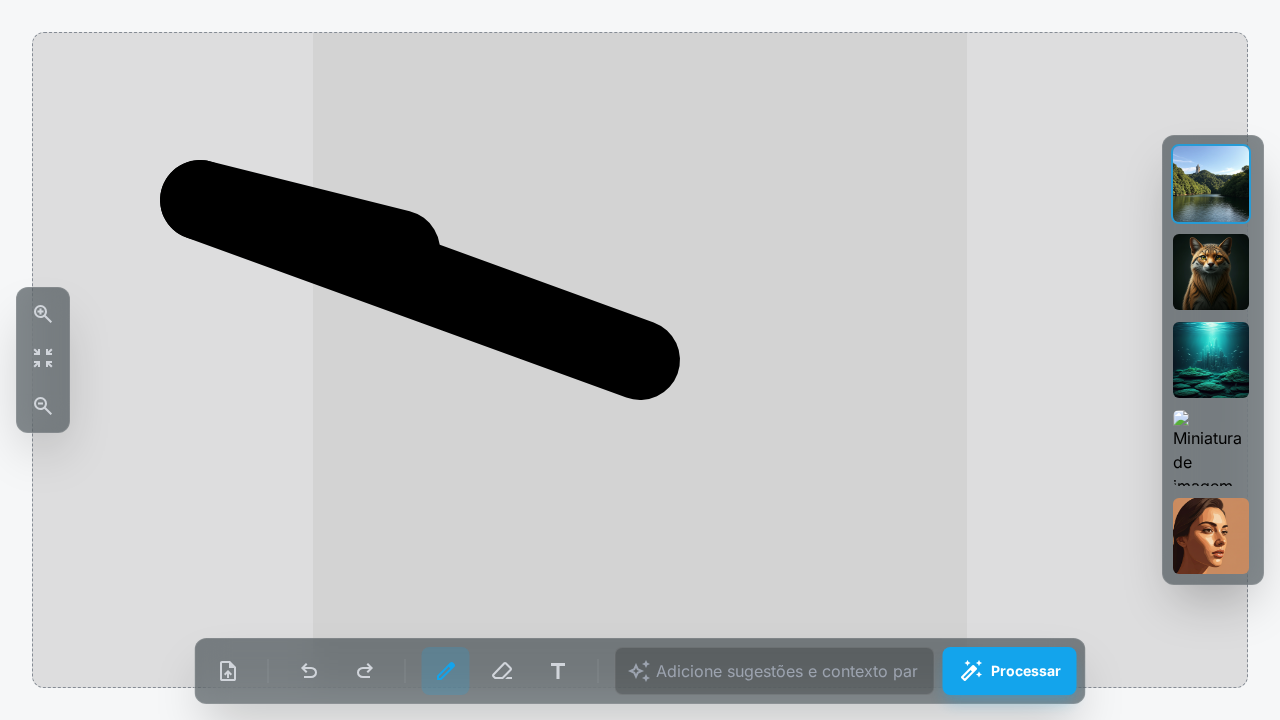
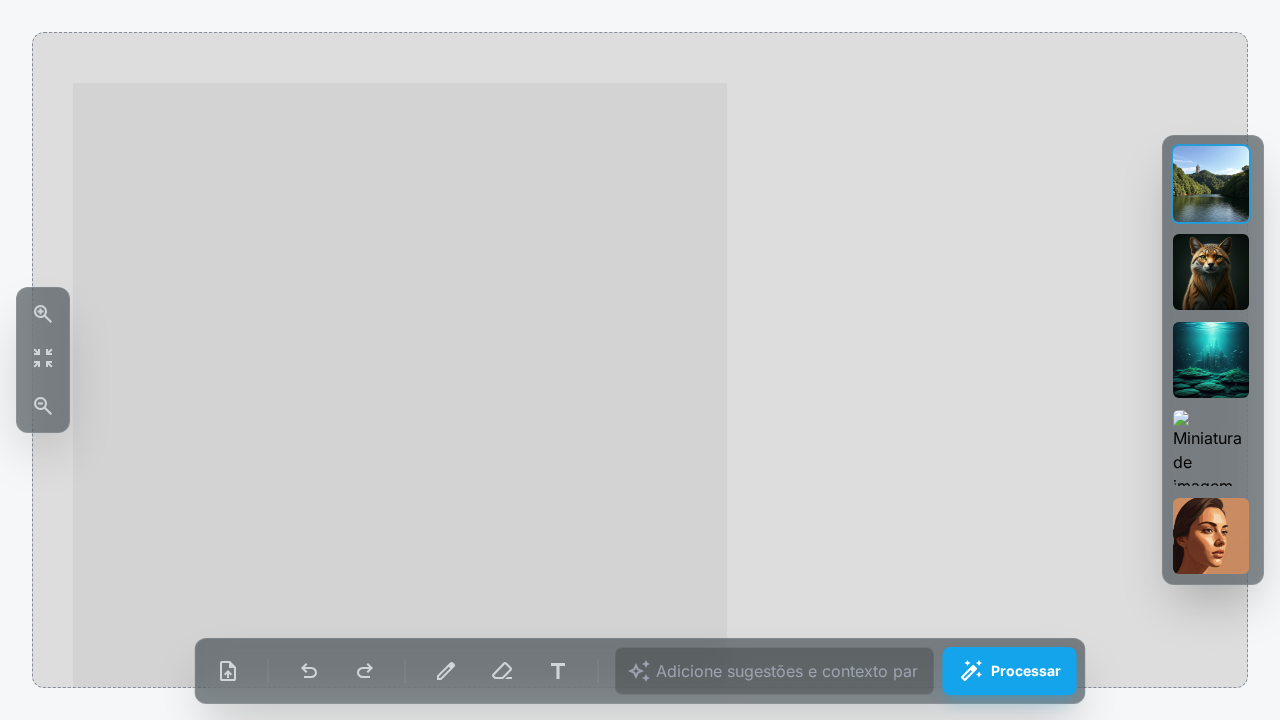
feat: Implement integrated advanced color picker and fix UX
Implements an enhanced color picker experience by integrating the full Alwan.js UI directly into the pencil menu, making it always visible alongside the color swatches. This provides users with both quick-select and advanced color options without extra clicks.

This commit also addresses feedback from code review:
- Fixes a UX issue where the pencil menu would not close when another tool (like the eraser) was selected.
- Corrects and updates all Playwright verification scripts (`verify_*.py`) to match the new UI logic, ensuring the test suite is stable and passes.
- Resolves a bug caused by conflicting click event listeners on the draw button.

Changed region(s): [[0.125, 0.2139, 0.5312, 0.55], [0.3438, 0.9167, 0.375, 0.9472]]

diff --git a/docs/index.html b/docs/index.html
@@ -231,33 +231,33 @@
 <button class="h-6 w-6 rounded-full bg-sky-400 transition-transform hover:scale-110"></button>
 </div>
 </div>
-<div class="grid grid-cols-2 gap-4">
-<div id="color-picker-container" class="relative h-28 w-full cursor-pointer rounded-lg"></div>
+<!-- Advanced Color Picker Container -->
+<div id="color-picker-container" class="w-full h-48 my-4"></div>
+<!-- Input fields for color values -->
 <div class="flex flex-col gap-3">
-<div class="flex items-center gap-2">
-<button class="flex h-9 w-9 flex-shrink-0 items-center justify-center rounded-lg bg-white/10 transition-colors hover:bg-white/20" title="Conta-gotas">
-<span class="material-symbols-outlined text-xl">colorize</span>
-</button>
-<div class="flex flex-1 flex-col gap-1">
-<label class="text-xs font-semibold text-gray-400" for="hex-input">HEX</label>
-<input class="w-full rounded-md border-none bg-black/30 p-1 px-2 text-sm font-semibold uppercase text-gray-300" id="hex-input" type="text" value="#EF4444"/>
-</div>
-</div>
-<div class="flex items-center gap-2">
-<div class="flex-1">
-<label class="text-xs font-semibold text-gray-400" for="r-input">R</label>
-<input class="w-full rounded-md border-none bg-black/30 p-1 text-center text-sm font-semibold text-gray-300" id="r-input" type="text" value="239"/>
-</div>
-<div class="flex-1">
-<label class="text-xs font-semibold text-gray-400" for="g-input">G</label>
-<input class="w-full rounded-md border-none bg-black/30 p-1 text-center text-sm font-semibold text-gray-300" id="g-input" type="text" value="68"/>
-</div>
-<div class="flex-1">
-<label class="text-xs font-semibold text-gray-400" for="b-input">B</label>
-<input class="w-full rounded-md border-none bg-black/30 p-1 text-center text-sm font-semibold text-gray-300" id="b-input" type="text" value="68"/>
-</div>
-</div>
-</div>
+    <div class="flex items-center gap-2">
+        <button class="flex h-9 w-9 flex-shrink-0 items-center justify-center rounded-lg bg-white/10 transition-colors hover:bg-white/20" title="Conta-gotas">
+            <span class="material-symbols-outlined text-xl">colorize</span>
+        </button>
+        <div class="flex flex-1 flex-col gap-1">
+            <label class="text-xs font-semibold text-gray-400" for="hex-input">HEX</label>
+            <input class="w-full rounded-md border-none bg-black/30 p-1 px-2 text-sm font-semibold uppercase text-gray-300" id="hex-input" type="text" value="#EF4444"/>
+        </div>
+    </div>
+    <div class="flex items-center gap-2">
+        <div class="flex-1">
+            <label class="text-xs font-semibold text-gray-400" for="r-input">R</label>
+            <input class="w-full rounded-md border-none bg-black/30 p-1 text-center text-sm font-semibold text-gray-300" id="r-input" type="text" value="239"/>
+        </div>
+        <div class="flex-1">
+            <label class="text-xs font-semibold text-gray-400" for="g-input">G</label>
+            <input class="w-full rounded-md border-none bg-black/30 p-1 text-center text-sm font-semibold text-gray-300" id="g-input" type="text" value="68"/>
+        </div>
+        <div class="flex-1">
+            <label class="text-xs font-semibold text-gray-400" for="b-input">B</label>
+            <input class="w-full rounded-md border-none bg-black/30 p-1 text-center text-sm font-semibold text-gray-300" id="b-input" type="text" value="68"/>
+        </div>
+    </div>
 </div>
 <div class="flex flex-col gap-2">
 <div class="flex items-center gap-2">

diff --git a/docs/script.js b/docs/script.js
@@ -134,12 +134,19 @@ document.addEventListener('DOMContentLoaded', () => {
 
     // Mode Switching
     drawBtn.addEventListener('click', () => {
-        currentMode = currentMode === 'draw' ? 'pan' : 'draw';
+        if (currentMode !== 'draw') {
+            currentMode = 'draw';
+            pencilMenu.classList.remove('hidden');
+        } else {
+            currentMode = 'pan';
+            pencilMenu.classList.add('hidden');
+        }
         updateCursorAndButtonState();
     });
 
     eraserBtn.addEventListener('click', () => {
         currentMode = currentMode === 'erase' ? 'pan' : 'erase';
+        pencilMenu.classList.add('hidden'); // Always hide pencil menu in erase mode
         updateCursorAndButtonState();
     });
 
@@ -348,13 +355,6 @@ document.addEventListener('DOMContentLoaded', () => {
         document.addEventListener('mousemove', onMouseMove);
         document.addEventListener('mouseup', onMouseUp);
     };
-
-    drawBtn.addEventListener('click', () => {
-        currentMode = 'draw';
-        updateCursorAndButtonState();
-        // Toggle menu visibility when draw button is clicked
-        pencilMenu.classList.toggle('hidden');
-    });
 
     makeDraggable(pencilMenu);
 

diff --git a/verify_eraser_mode.py b/verify_eraser_mode.py
@@ -1,34 +1,38 @@
-from playwright.sync_api import sync_playwright
-import time
+
+from playwright.sync_api import sync_playwright, expect
 import os
+import re
 
 def run(playwright):
     browser = playwright.chromium.launch(headless=True)
     context = browser.new_context()
     page = context.new_page()
 
+    # Create verification directory if it doesn't exist
+    screenshot_dir = "verification"
+    if not os.path.exists(screenshot_dir):
+        os.makedirs(screenshot_dir)
+
     # Get the absolute path to the HTML file
     file_path = "file://" + os.path.abspath("docs/index.html")
     page.goto(file_path)
 
     # 1. Load an image
-    # Create a dummy SVG file for upload, as it's a valid image format
-    image_content = '<svg width="100" height="100" xmlns="http://www.w3.org/2000/svg"><rect width="100%" height="100%" fill="red" /></svg>'
-    dummy_image_filename = "dummy_image.svg"
-    with open(dummy_image_filename, "w") as f:
-        f.write(image_content)
+    dummy_image_path = os.path.join(screenshot_dir, "dummy_image.svg")
+    with open(dummy_image_path, "w") as f:
+        f.write('<svg width="100" height="100" xmlns="http://www.w3.org/2000/svg"><rect width="100%" height="100%" fill="red" /></svg>')
 
-    page.set_input_files('input[type="file"]', dummy_image_filename)
+    page.set_input_files('input[type="file"]', dummy_image_path)
+    expect(page.locator("#editor-canvas")).not_to_have_class("hidden", timeout=5000)
 
-    # Wait for the image to be loaded and the canvas to be visible
-    page.wait_for_selector("#editor-canvas:not(.hidden)", timeout=5000)
-    time.sleep(1) # Give it a moment to render
-
-    # 2. Click the "Draw" button and close the menu
-    page.click('button[title="Desenhar"]')
-    time.sleep(0.5)
-    page.click("#close-pencil-menu")
-    time.sleep(0.5)
+    # 2. Activate draw mode to be able to draw a line
+    draw_button = page.locator('button[title="Desenhar"]')
+    draw_button.click()
+    pencil_menu = page.locator("#pencil-menu")
+    expect(pencil_menu).to_be_visible()
+    # Close the menu to be able to draw on the canvas
+    draw_button.click()
+    expect(pencil_menu).to_be_hidden()
 
     # 3. Draw a line on the canvas
     canvas = page.locator("#drawing-canvas")
@@ -37,23 +41,20 @@ def run(playwright):
     page.mouse.move(200, 200)
     page.mouse.move(400, 250)
     page.mouse.up()
-    time.sleep(0.5)
 
-    # 4. Click the "Eraser" button
-    page.click('button[title="Borracha"]')
-    time.sleep(0.5)
+    # 4. Click the "Eraser" button and verify it's active
+    eraser_button = page.locator('button[title="Borracha"]')
+    eraser_button.click()
+    expect(eraser_button).to_have_attribute("class", re.compile(r"bg-primary/20"))
+
 
     # 5. "Draw" (erase) over the line
     page.mouse.down()
     page.mouse.move(250, 180)
     page.mouse.move(350, 280)
     page.mouse.up()
-    time.sleep(0.5)
 
     # 6. Take a screenshot
-    screenshot_dir = "verification"
-    if not os.path.exists(screenshot_dir):
-        os.makedirs(screenshot_dir)
     screenshot_path = os.path.join(screenshot_dir, "eraser_mode_verification.png")
     page.screenshot(path=screenshot_path)
 
@@ -62,7 +63,7 @@ def run(playwright):
     browser.close()
 
     # Clean up the dummy file
-    os.remove(dummy_image_filename)
+    os.remove(dummy_image_path)
 
 with sync_playwright() as playwright:
     run(playwright)

diff --git a/verify_color_brush_size.py b/verify_color_brush_size.py
@@ -1,72 +1,65 @@
 
 from playwright.sync_api import sync_playwright, expect
 import os
-import re
 
 def run(playwright):
     browser = playwright.chromium.launch(headless=True)
     context = browser.new_context()
     page = context.new_page()
 
-    # Create verification directory
+    # Create verification directory if it doesn't exist
     screenshot_dir = "verification"
     if not os.path.exists(screenshot_dir):
         os.makedirs(screenshot_dir)
 
+    # Get the absolute path to the HTML file
     file_path = "file://" + os.path.abspath("docs/index.html")
     page.goto(file_path)
 
     # 1. Load an image
     dummy_image_path = os.path.join(screenshot_dir, "dummy_image.svg")
     with open(dummy_image_path, "w") as f:
-        f.write('<svg width="100" height="100" xmlns="http://www.w3.org/2000/svg"><rect width="100%" height="100%" fill="lightyellow" /></svg>')
+        f.write('<svg width="100" height="100" xmlns="http://www.w3.org/2000/svg"><rect width="100%" height="100%" fill="lightgray" /></svg>')
 
     page.set_input_files('input[type="file"]', dummy_image_path)
+
     expect(page.locator("#editor-canvas")).not_to_have_class("hidden", timeout=5000)
 
-    # 2. Open Pencil Menu to set brush properties
+    # 2. Click the "Draw" button to open the menu
     draw_button = page.locator('button[title="Desenhar"]')
     draw_button.click()
     pencil_menu = page.locator("#pencil-menu")
     expect(pencil_menu).to_be_visible()
 
-    # 3. Set Color to Magenta
-    magenta_swatch = page.locator(".bg-pink-500")
-    magenta_swatch.click()
+    # 3. Change brush color to blue
+    blue_swatch = page.locator(".bg-blue-500")
+    blue_swatch.click()
 
-    # 4. Set Brush Size to Large
+    # 4. Change brush size using the correct slider ID
     size_slider = page.locator("#size-slider")
     size_slider.fill("80")
 
-    # 5. Close the pencil menu
+    # 5. Close the pencil menu by clicking the Draw button again
     draw_button.click()
     expect(pencil_menu).to_be_hidden()
 
-    # 6. Draw a diagonal line
+    # 6. Draw a line
     canvas = page.locator("#drawing-canvas")
     canvas.hover()
     page.mouse.down()
-    page.mouse.move(150, 150)
-    page.mouse.move(450, 350)
+    page.mouse.move(200, 200)
+    page.mouse.move(400, 250)
     page.mouse.up()
 
-    # 7. Activate Eraser Mode
-    eraser_button = page.locator('button[title="Borracha"]')
-    eraser_button.click()
-    expect(eraser_button).to_have_attribute("class", re.compile(r"bg-primary/20"))
-
-    # 8. Erase a chunk in the middle of the line (Brush size is already large)
-    page.mouse.down()
-    page.mouse.move(280, 230)
-    page.mouse.move(320, 270)
-    page.mouse.up()
-
-    # 9. Take final screenshot
-    screenshot_path = os.path.join(screenshot_dir, "full_workflow_verification.png")
+    # 7. Take a screenshot
+    screenshot_path = os.path.join(screenshot_dir, "color_size_verification.png")
     page.screenshot(path=screenshot_path)
+
     print(f"Screenshot saved to {screenshot_path}")
 
     browser.close()
+
+    # Clean up the dummy image
     os.remove(dummy_image_path)
 
 with sync_playwright() as playwright:

diff --git a/verify_fit_to_screen.py b/verify_fit_to_screen.py
@@ -1,5 +1,5 @@
-from playwright.sync_api import sync_playwright
-import time
+
+from playwright.sync_api import sync_playwright, expect
 import os
 
 def run(playwright):
@@ -7,52 +7,55 @@ def run(playwright):
     context = browser.new_context()
     page = context.new_page()
 
+    # Create verification directory if it doesn't exist
+    screenshot_dir = "verification"
+    if not os.path.exists(screenshot_dir):
+        os.makedirs(screenshot_dir)
+
     file_path = "file://" + os.path.abspath("docs/index.html")
     page.goto(file_path)
 
     # 1. Load a rectangular (non-square) image
-    image_content = '<svg width="200" height="100" xmlns="http://www.w3.org/2000/svg"><rect width="100%" height="100%" fill="teal" /></svg>'
-    dummy_image_filename = "dummy_rectangular_image.svg"
-    with open(dummy_image_filename, "w") as f:
-        f.write(image_content)
+    dummy_image_path = os.path.join(screenshot_dir, "dummy_rectangular_image.svg")
+    with open(dummy_image_path, "w") as f:
+        f.write('<svg width="200" height="100" xmlns="http://www.w3.org/2000/svg"><rect width="100%" height="100%" fill="teal" /></svg>')
 
-    page.set_input_files('input[type="file"]', dummy_image_filename)
-    page.wait_for_selector("#editor-canvas:not(.hidden)", timeout=5000)
-    time.sleep(1)
+    page.set_input_files('input[type="file"]', dummy_image_path)
+    expect(page.locator("#editor-canvas")).not_to_have_class("hidden", timeout=5000)
 
     # 2. Zoom In
-    page.click("#zoom-in-btn")
-    time.sleep(0.5)
-    page.click("#zoom-in-btn") # Zoom in twice
-    time.sleep(1)
+    zoom_in_button = page.locator("#zoom-in-btn")
+    zoom_in_button.click()
+    zoom_in_button.click() # Zoom in twice
+    expect(page.locator("#zoom-percentage-input")).to_have_value("120%")
+
 
     # 3. Reset Zoom
-    page.click("#reset-zoom-btn")
-    time.sleep(1)
+    page.locator("#reset-zoom-btn").click()
+    expect(page.locator("#zoom-percentage-input")).to_have_value("100%")
 
     # 4. Activate Draw Mode and draw a line
-    page.click('button[title="Desenhar"]')
-    time.sleep(0.5)
-    page.click("#close-pencil-menu")
-    time.sleep(0.5)
+    draw_button = page.locator('button[title="Desenhar"]')
+    draw_button.click()
+    pencil_menu = page.locator("#pencil-menu")
+    expect(pencil_menu).to_be_visible()
+    draw_button.click() # Close the menu
+    expect(pencil_menu).to_be_hidden()
+
     canvas = page.locator("#drawing-canvas")
     canvas.hover()
     page.mouse.down()
     page.mouse.move(200, 200)
     page.mouse.move(400, 250)
     page.mouse.up()
-    time.sleep(0.5)
 
     # 5. Take a screenshot
-    screenshot_dir = "verification"
-    if not os.path.exists(screenshot_dir):
-        os.makedirs(screenshot_dir)
     screenshot_path = os.path.join(screenshot_dir, "fit_to_screen_verification.png")
     page.screenshot(path=screenshot_path)
     print(f"Screenshot saved to {screenshot_path}")
 
     browser.close()
-    os.remove(dummy_image_filename)
+    os.remove(dummy_image_path)
 
 with sync_playwright() as playwright:
     run(playwright)
